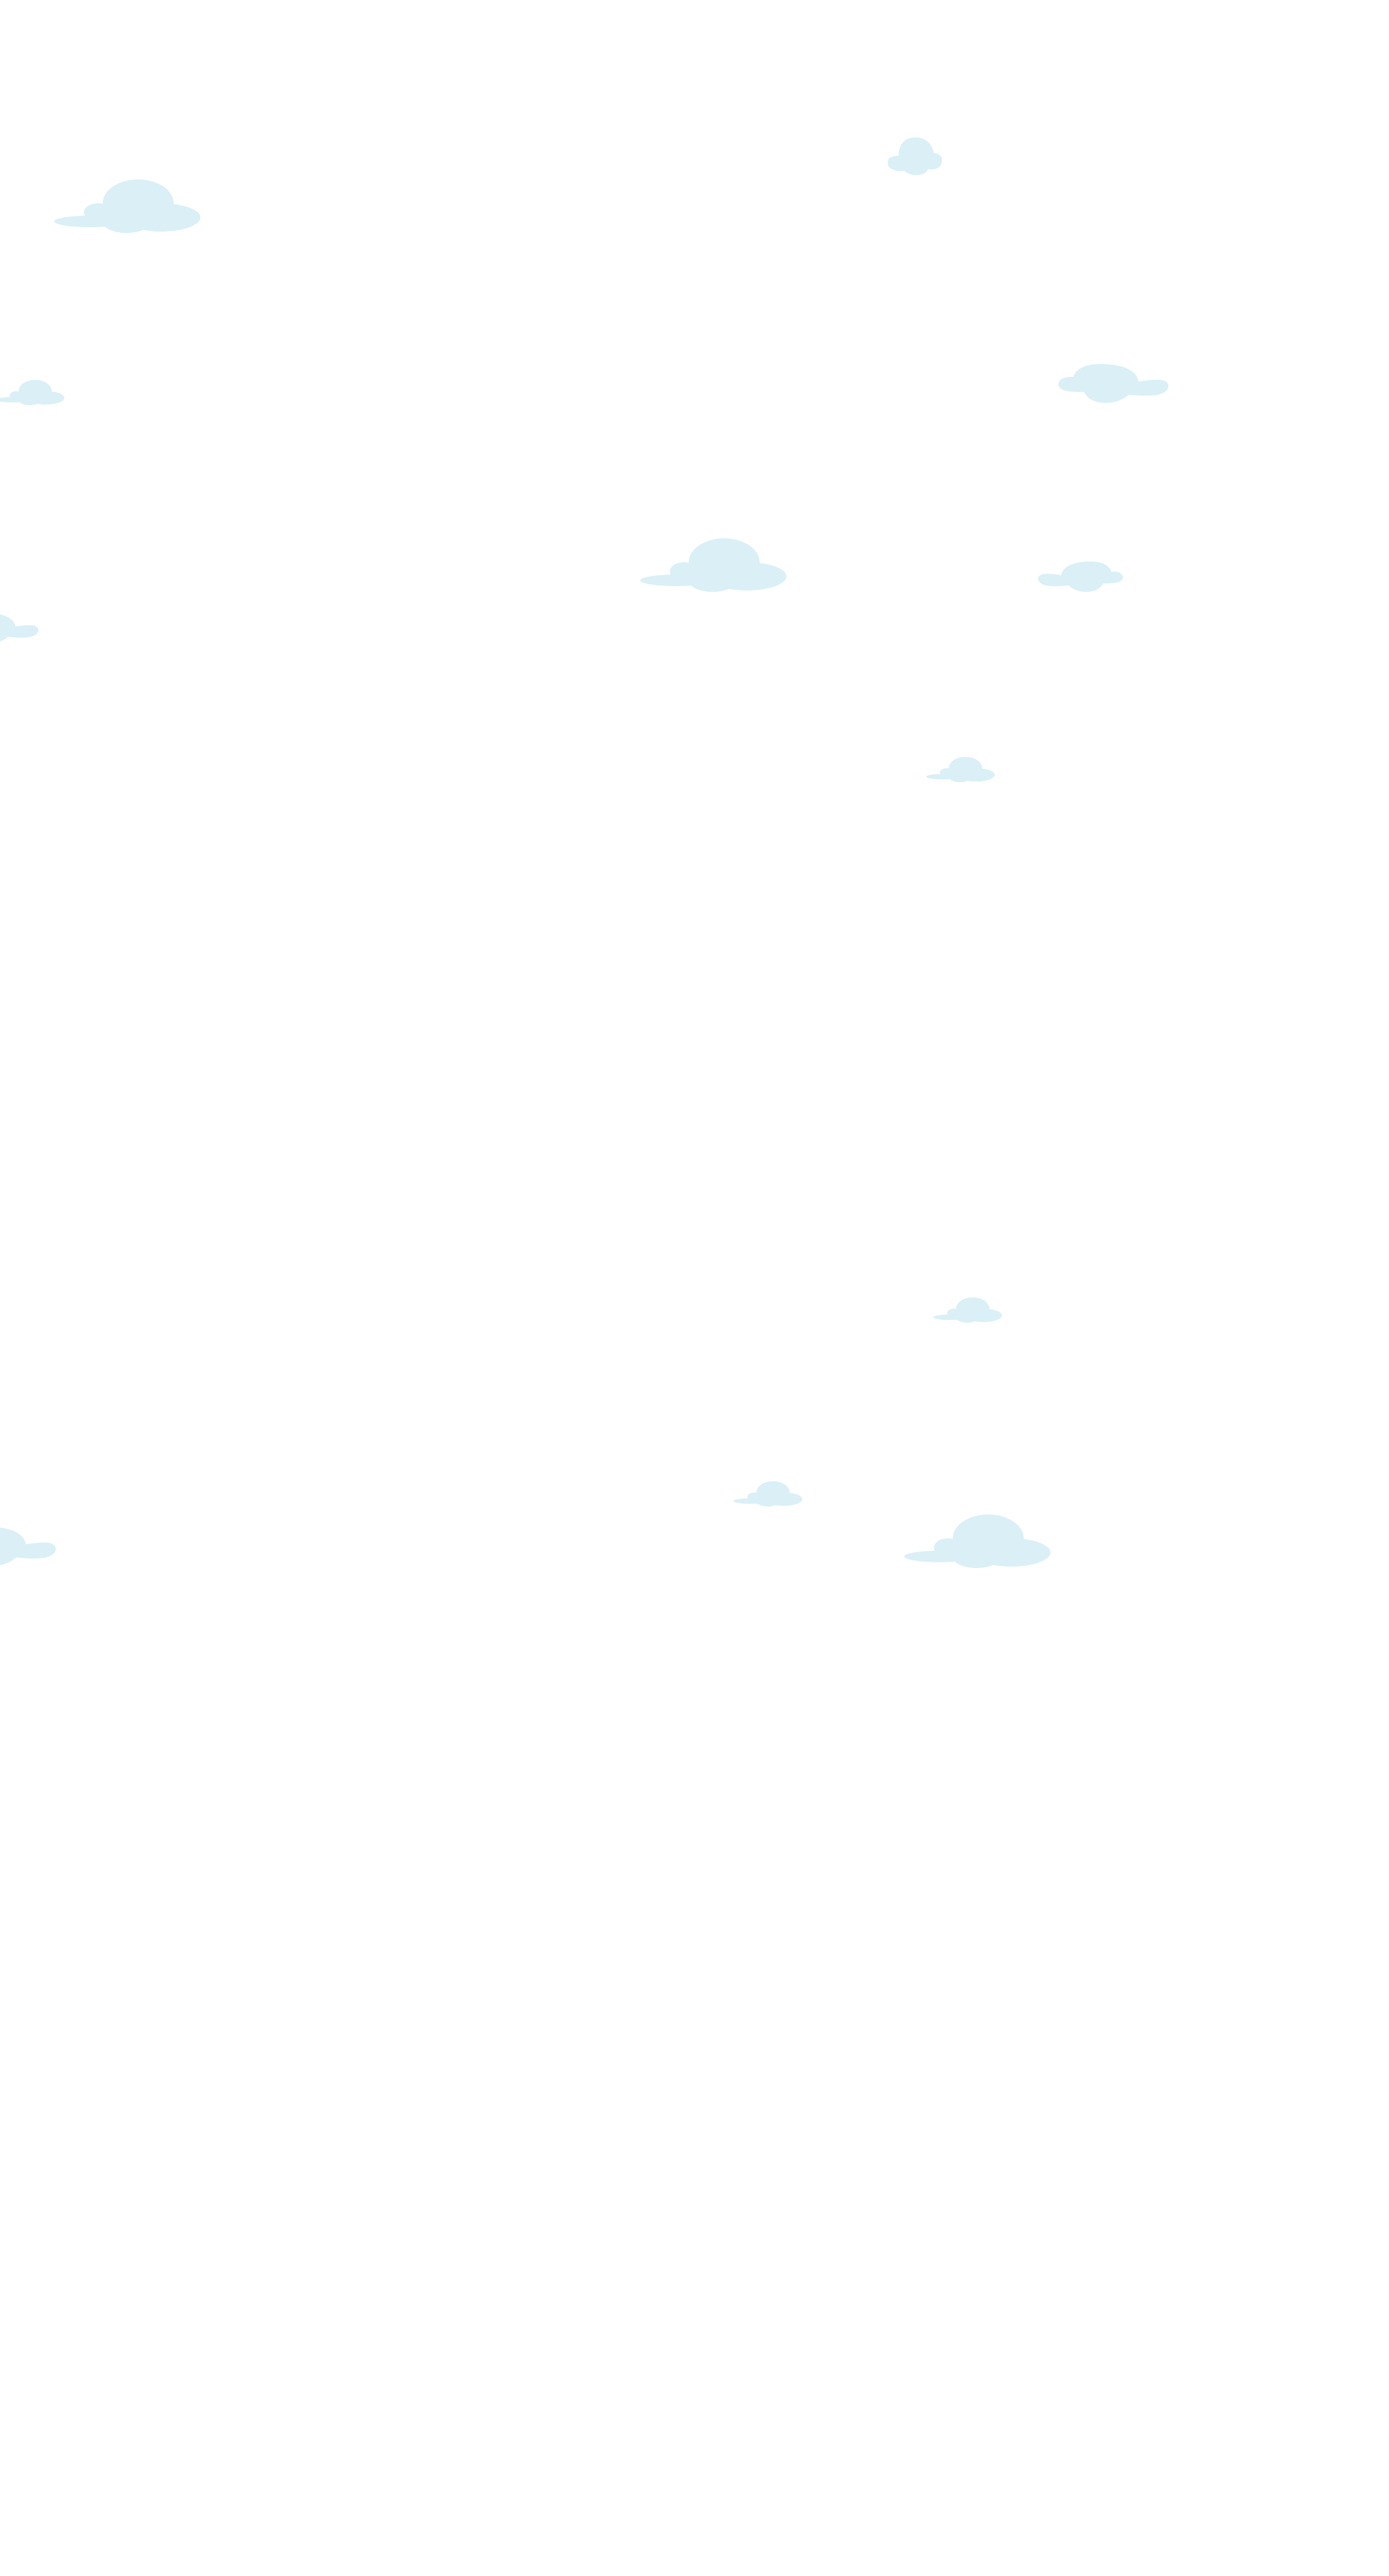
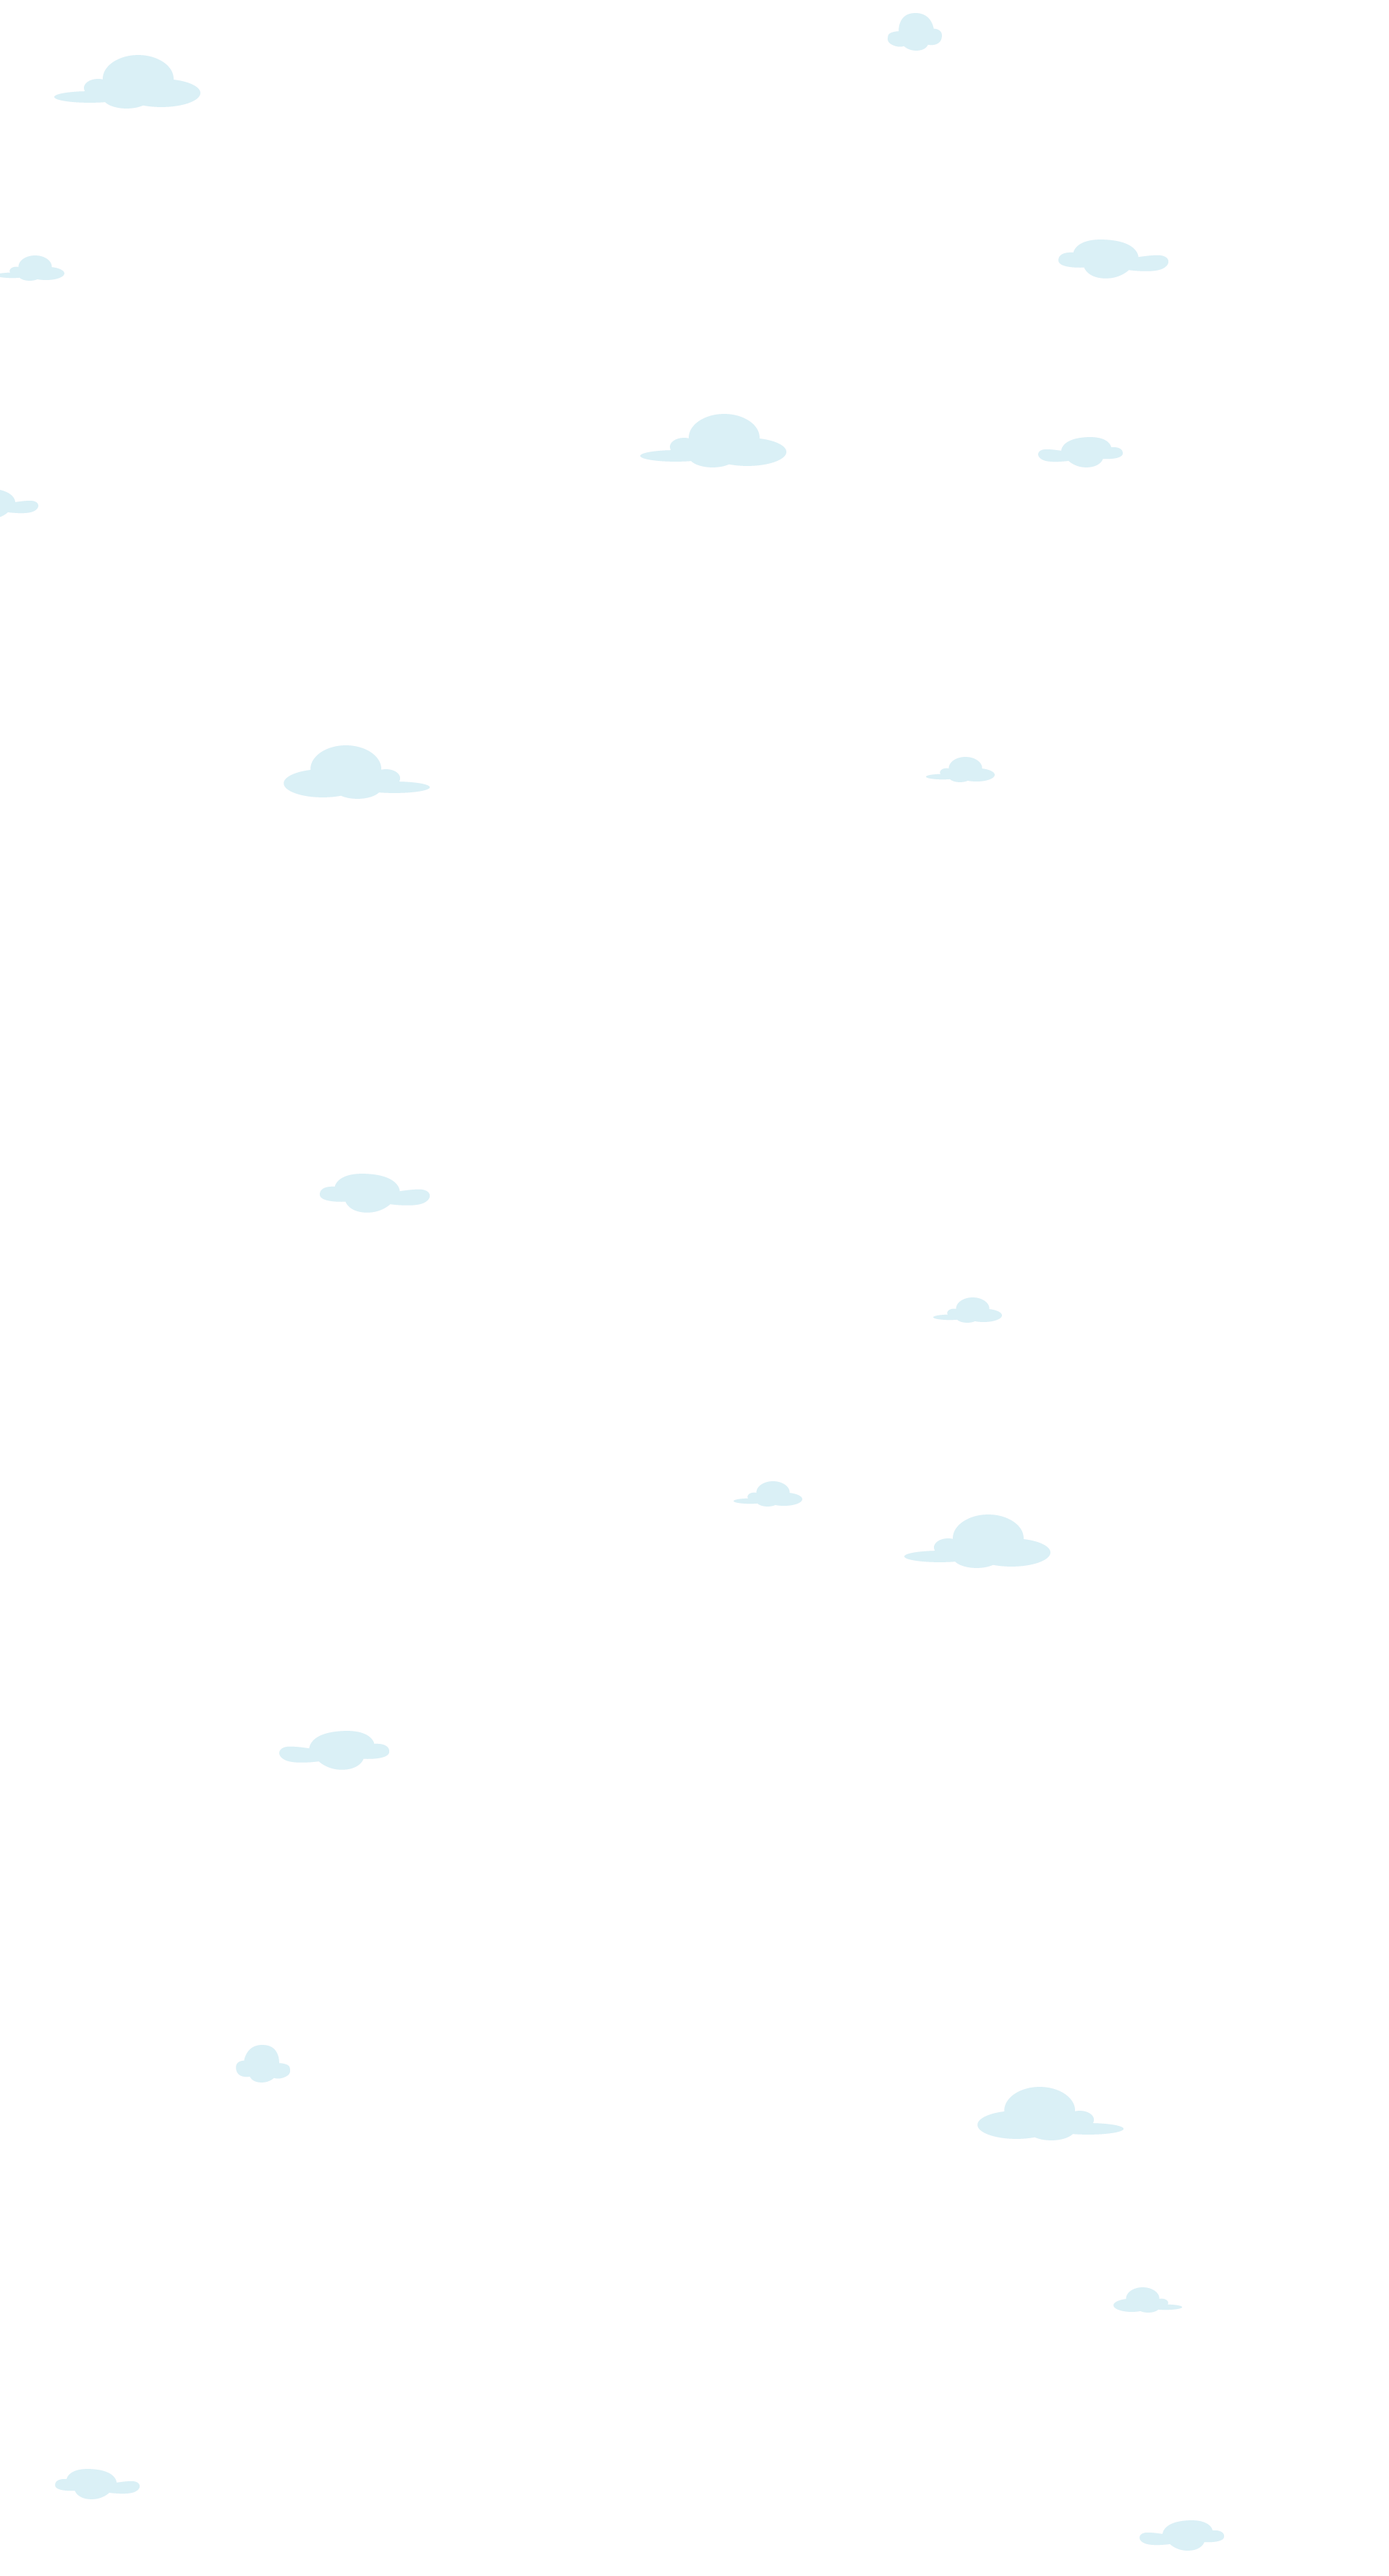
Ajustes

diff --git a/css/style.css b/css/style.css
@@ -223,3 +223,31 @@
 .row{
   margin: 0px;
 }
+
+
+.fundo-input{
+  background-color: #fff;
+  box-shadow: 0px 1px 5px #666;
+  padding: 1rem;
+  width: 100%;
+      border-radius: 8px;
+}
+.input-customizado {
+  border: 2px dashed #666;
+  padding: 1.2rem;
+  font-family: Foxinthesnow;
+  font-weight: lighter;
+    width: 100%;
+    border-radius: 8px;
+    font-size: 21px;
+}
+.textarea-customizado{
+  height: 290px;
+}
+
+#vamos{
+  position: absolute;
+  margin-top: -70px;
+  margin-left: -30px;
+  z-index: 777;
+}

diff --git a/css/blog.css b/css/blog.css
@@ -1,11 +1,4 @@
-.blog-pesquisar{
-  background-color: #fff;
-  box-shadow: 0px 0px 5px #ccc;
-}
-.input-customizado {
-  border: 1px dashed #666;
-  padding: 1rem;
-}
+
 
 #blog a {
   text-decoration: none;

diff --git a/contato.php b/contato.php
@@ -8,6 +8,7 @@
                     <div class="titulo-grande text-color-marrom">
                         Contato
                     </div>
+                    <img id="vamos" src="img/vamos-conversar.png">
                 </div>
             </div>
 
@@ -17,44 +18,48 @@
                         <div class="col-md-6 col-sm-6">
                             <div class="row">
                                 <div class="col-md-12 col-sm-12 col-xs-12">
-                                    <div id="contato-nome" class="text-color-marrom vamor-conversar">
+
+                                    <div id="contato-nome" class="fundo-input text-color-marrom vamor-conversar">
                                         <input class="input-customizado" type="text" placeholder="Nome">
-                                        <img class="img-responsive" src="img/input-contato.png" alt="">
+
                                     </div>
                                 </div>
                             </div>
-
+        <br><br>
                             <div class="row">
                                 <div class="col-md-12 col-sm-12 col-xs-12">
-                                    <div id="contato-email" class="text-color-marrom">
+                                    <div id="contato-email" class="fundo-input text-color-marrom">
                                         <input class="input-customizado" type="text" placeholder="E-mail">
-                                        <img class="img-responsive" src="img/input-contato.png" alt="">
+
                                     </div>
                                 </div>
                             </div>
-
+                            <br><br>
                             <div class="row">
                                 <div class="col-md-12 col-sm-12 col-xs-12">
-                                    <div id="contato-telefone" class="text-color-marrom">
+                                    <div id="contato-telefone" class="fundo-input text-color-marrom">
                                         <input class="input-customizado" type="text" placeholder="Telefone">
-                                        <img class="img-responsive" src="img/input-contato.png" alt="">
+
                                     </div>
                                 </div>
                             </div>
                         </div>
 
                         <div class="col-md-6 col-sm-6">
-                            <textarea name="" id="contato-mensagem" class="textarea-customizado" placeholder="Mensagem"></textarea>
-                            <img class="img-responsive" src="img/textarea-contato.png" alt="">
+                          <div class="fundo-input">
+                            <textarea name="" id="contato-mensagem" class="input-customizado textarea-customizado" placeholder="Mensagem"></textarea>
+                          </div>
                         </div>
                     </div>
+
+                    <br><br>
+                                    <div class="row">
+                                        <div class="col-md-12 col-sm-12 col-xs-12 text-right">
+                                            <a href="javascript:void(0)"><img src="img/contato_botao_enviar.png" alt=""></a>
+                                        </div>
+                                    </div>
                 </form>
 
-                <div class="row">
-                    <div class="col-md-12 col-sm-12 col-xs-12 text-right">
-                        <a href="javascript:void(0)"><img src="img/contato_botao_enviar.png" alt=""></a>
-                    </div>
-                </div>
             </div>
         </div>
 

diff --git a/blog.php b/blog.php
@@ -36,8 +36,8 @@
 
                 <div class="col-lg-4 col-lg-offset-1 col-md-4 col-md-offset-1 col-sm-4 col-sm-offset-1">
                     <div class="espacamento_bottom">
-                        <div class="blog-pesquisar">
-                            <input class="input-customizado titulo-medio-pequeno " type="text" placeholder="Pesquisar..." style="font-size:20px;">
+                        <div class="fundo-input">
+                            <input class="input-customizado" type="text" placeholder="Pesquisar..." style="font-size:20px;">
 
                         </div>
                     </div>

diff --git a/anuvem.php b/anuvem.php
@@ -1,6 +1,6 @@
 <?php require "header.php" ?>
 
-    <section id="anuvem" class="bg-nuvens">
+    <section id="anuvem" class="bg-nuvens bg-nuvem-arquitetura">
 
         <div class="container">
             <section>
